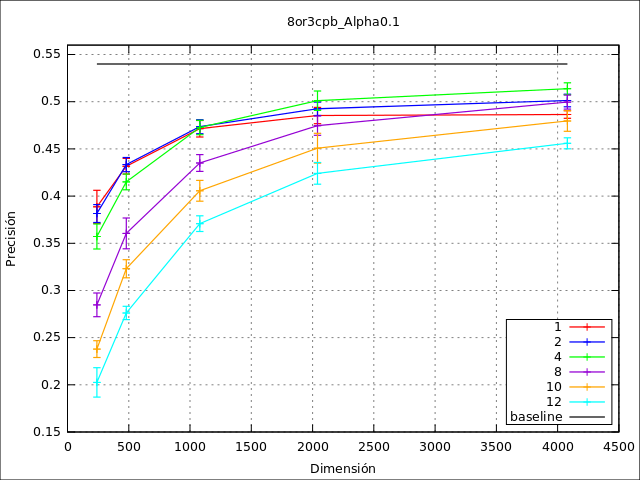
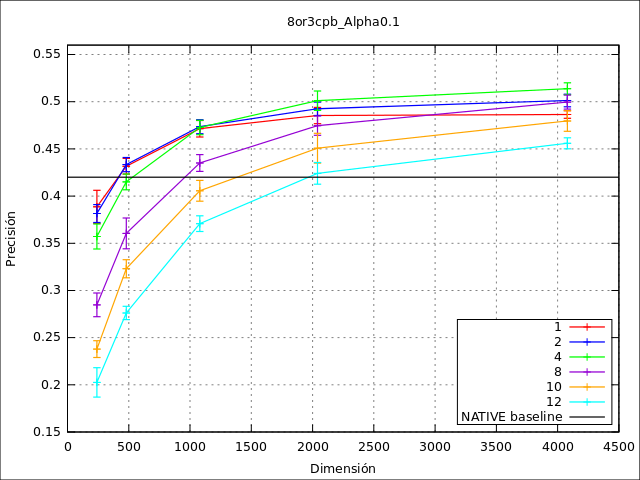
Se agrega baseline a los graficos de los experimentos con imagenes reales

diff --git a/capitulo4/resultados.tex b/capitulo4/resultados.tex
@@ -19,7 +19,7 @@
 
 	\end{itemize}
 	
-	Existen ciertas condiciones por las cuales no se pueden reproducir de manera exacta los resultados obtenidos por Wang et al. en \cite{wang}. La más importante es que el lenguaje usado para implementar el clasificador en el presente trabajo es Python, mientras que los autores usan matlab por lo cual pueden haber ciertas cosas que modifiquen los resultados. Otra de las razones es que en su trabajo no explican el método que utilizan para binarizar los vectores, por lo cual en este trabajo se proponen $4$ métodos alternativos. La última razón tiene que ver con la aparente diferencia en la implementación de la función hog. La implementación en \cite{wang} es la de Piotr Dollar el cual está basado en \cite{DT05}. En este trabajo se usa una implementación obtenida de la libreria scikit-image la cual está basada tambien en \cite{DT05}. Sin embargo, si bien ambas funciones se basan en el mismo trabajo realizado por Dalal \& Triggs, existen ciertas diferencias.
+	Existen ciertas condiciones por las cuales no se pueden reproducir de manera exacta los resultados obtenidos por Wang et al. en \cite{wang}. La más importante es que el lenguaje usado para implementar el clasificador en el presente trabajo es Python, mientras que los autores usan matlab por lo cual pueden haber ciertas cosas que modifiquen los resultados. Otra de las razones es que en su trabajo no explican de manera clara y concisa el método que utilizan para binarizar los vectores, por lo cual en este trabajo se proponen $4$ métodos alternativos. La última razón tiene que ver con la aparente diferencia en la implementación de la función hog. La implementación en \cite{wang} es la de Piotr Dollar el cual está basado en \cite{DT05}. En este trabajo se usa una implementación obtenida de la libreria scikit-image la cual está basada tambien en \cite{DT05}. Sin embargo, si bien ambas funciones se basan en el mismo trabajo realizado por Dalal \& Triggs, existen ciertas diferencias.
 	
 	Ante esta situación se decide por establecer como baseline el resultado obtenido por la configuración más cercana a la usada por los autores en \cite{wang}. Los parámetros usados fueron: $8$ orientaciones y $6$ celdas por bloque para la función HOG; el valor de la longitud de los vectores de características fue establecido en $1536$ y usaron grupos de $6$ bits. En cuanto a la binarización de los vectores, si bien no hay un método concreto, basádo en el código provisto por los autores se pudo deducir que generaban números aleatorios entre $0$ y $1$ para armar el umbral. Para intentar acercarnos lo más posible a esa implementación, se decidió por usar el método bootstrap para afrontar el problema ya que es la función que más se apega a lo que hicieron. Por último, el valor de alpha surge de lo explicado en \ref{subsection:ferns} y es un valor que no está explicitado ni en el paper ni en el código de manera clara. La siguiente tabla muestra los valores luego de calcular la media sobre $5$ experimentos corridos sobre imágenes reales y sintéticas con los parámetros explicados anteriormente. Estos valores van a ser nuestros baselines a superar durante los siguientes experimentos.
 	
@@ -29,7 +29,7 @@
     			\hline
     				\textbf{Implementación} & \textbf{Score} \\ \hline
     				NATIVE+FERNS & 0.42\% \\ \hline
-    				SINT+FERNS & 0.47\% \\
+    				SINT+FERNS & 0.34\% \\
     			\hline
     		\end{tabular}	
     		\caption[Resultados reales y sintéticas para baseline]{Resultados obtenidos al acercarnos a la implementación de Wang et al.}
